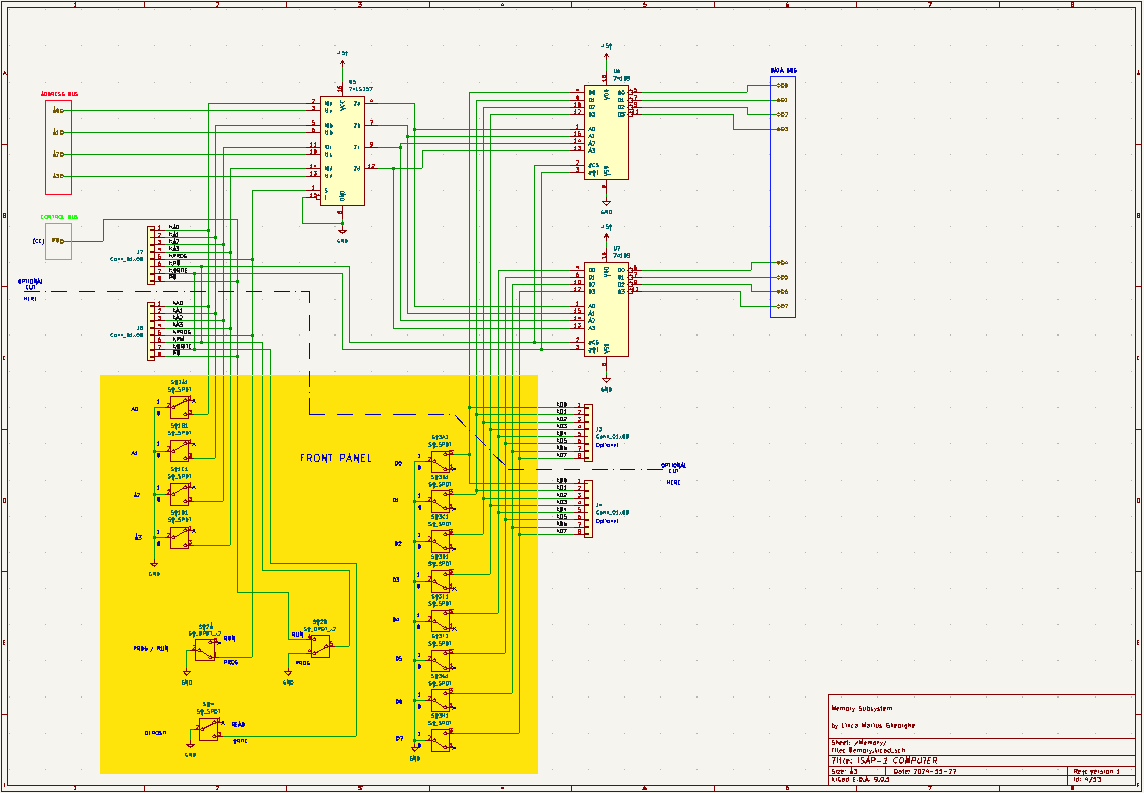
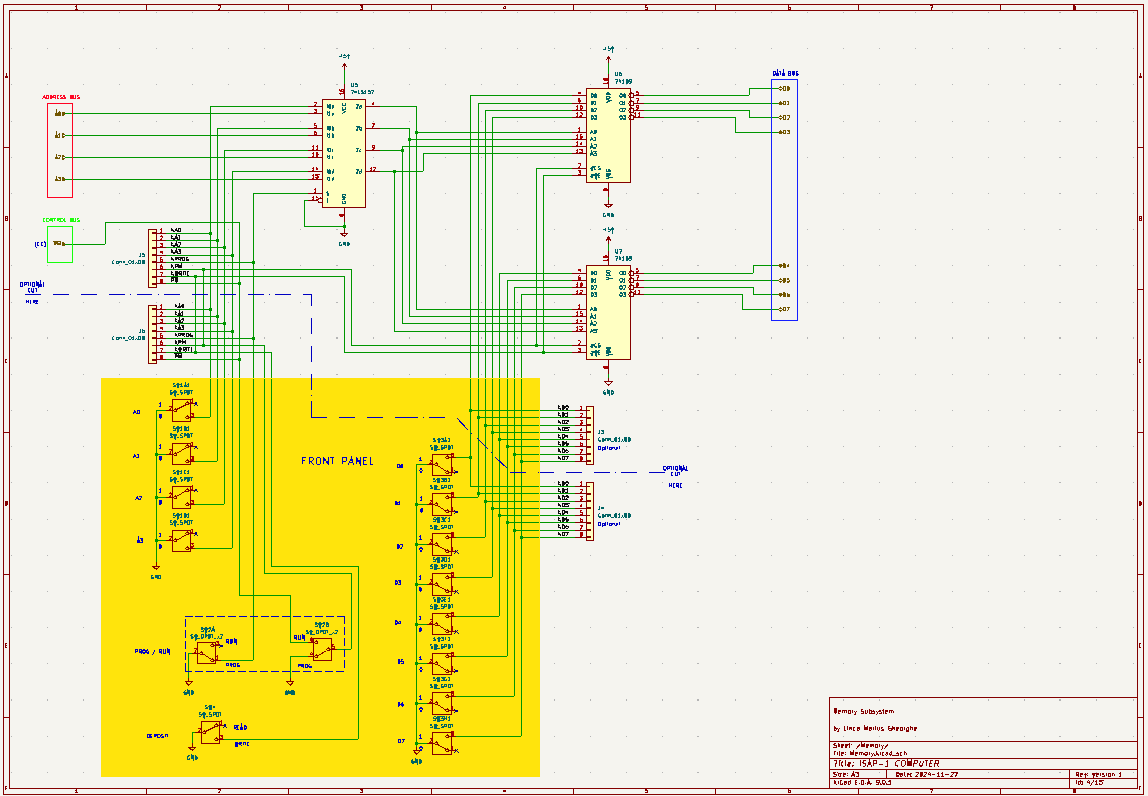
modified:   Pictures/Figure8.png

diff --git a/README.md b/README.md
@@ -103,13 +103,7 @@ Although the Memory subsystem is treated as a separate block, the schematic does
 
 ![ Figure 8 ](/Pictures/Figure8.png)
 
-I added a connector marked J5M1 for connection to the Base Board through which the power supply is provided.
-
-The connector marked J6M1 allows connection to the Base Plane and provides connections to the three system buses.
-
-I also added 100nF decoupling capacitors for each integrated circuit used and a 100uF filter capacitor.
-
-The connector marked J7F allows the module to be connected to the Front Panel for address selection. The connector marked J8F allows the module to be connected to the Front Panel for data setting.
+I added two pairs of connectors marked J3, J4 and J5, J6 for connection to the Front Panel if it is made on a separate PCB.
 
 The schematic has no other changes from the original schematic.
 
@@ -118,8 +112,6 @@ The integrated circuit marked in the diagram C5 in the SAP-1 schematic and U5 in
 If switch SW2 is in the “Program” position, the address given by the Address Register via the Address Bus is selected, otherwise if switch SW2 is in the “Run” position, the value set by switch group SW1 is selected as the address.
 
 From the catalog data of the 74189 chip we find that when the #CE input is low, this chip outputs the Data stored at the selected Address, this happens when the PM (original CE) control signal is activated or when the SW2 switch is moved to the “Programming” position.
-
-This is what the completed PCB looks like for the ISAP-1 TTL Computer Memory Module Version 1.0
 
 ![ Figure 8b ](/Pictures/Figure8b.png)
 
